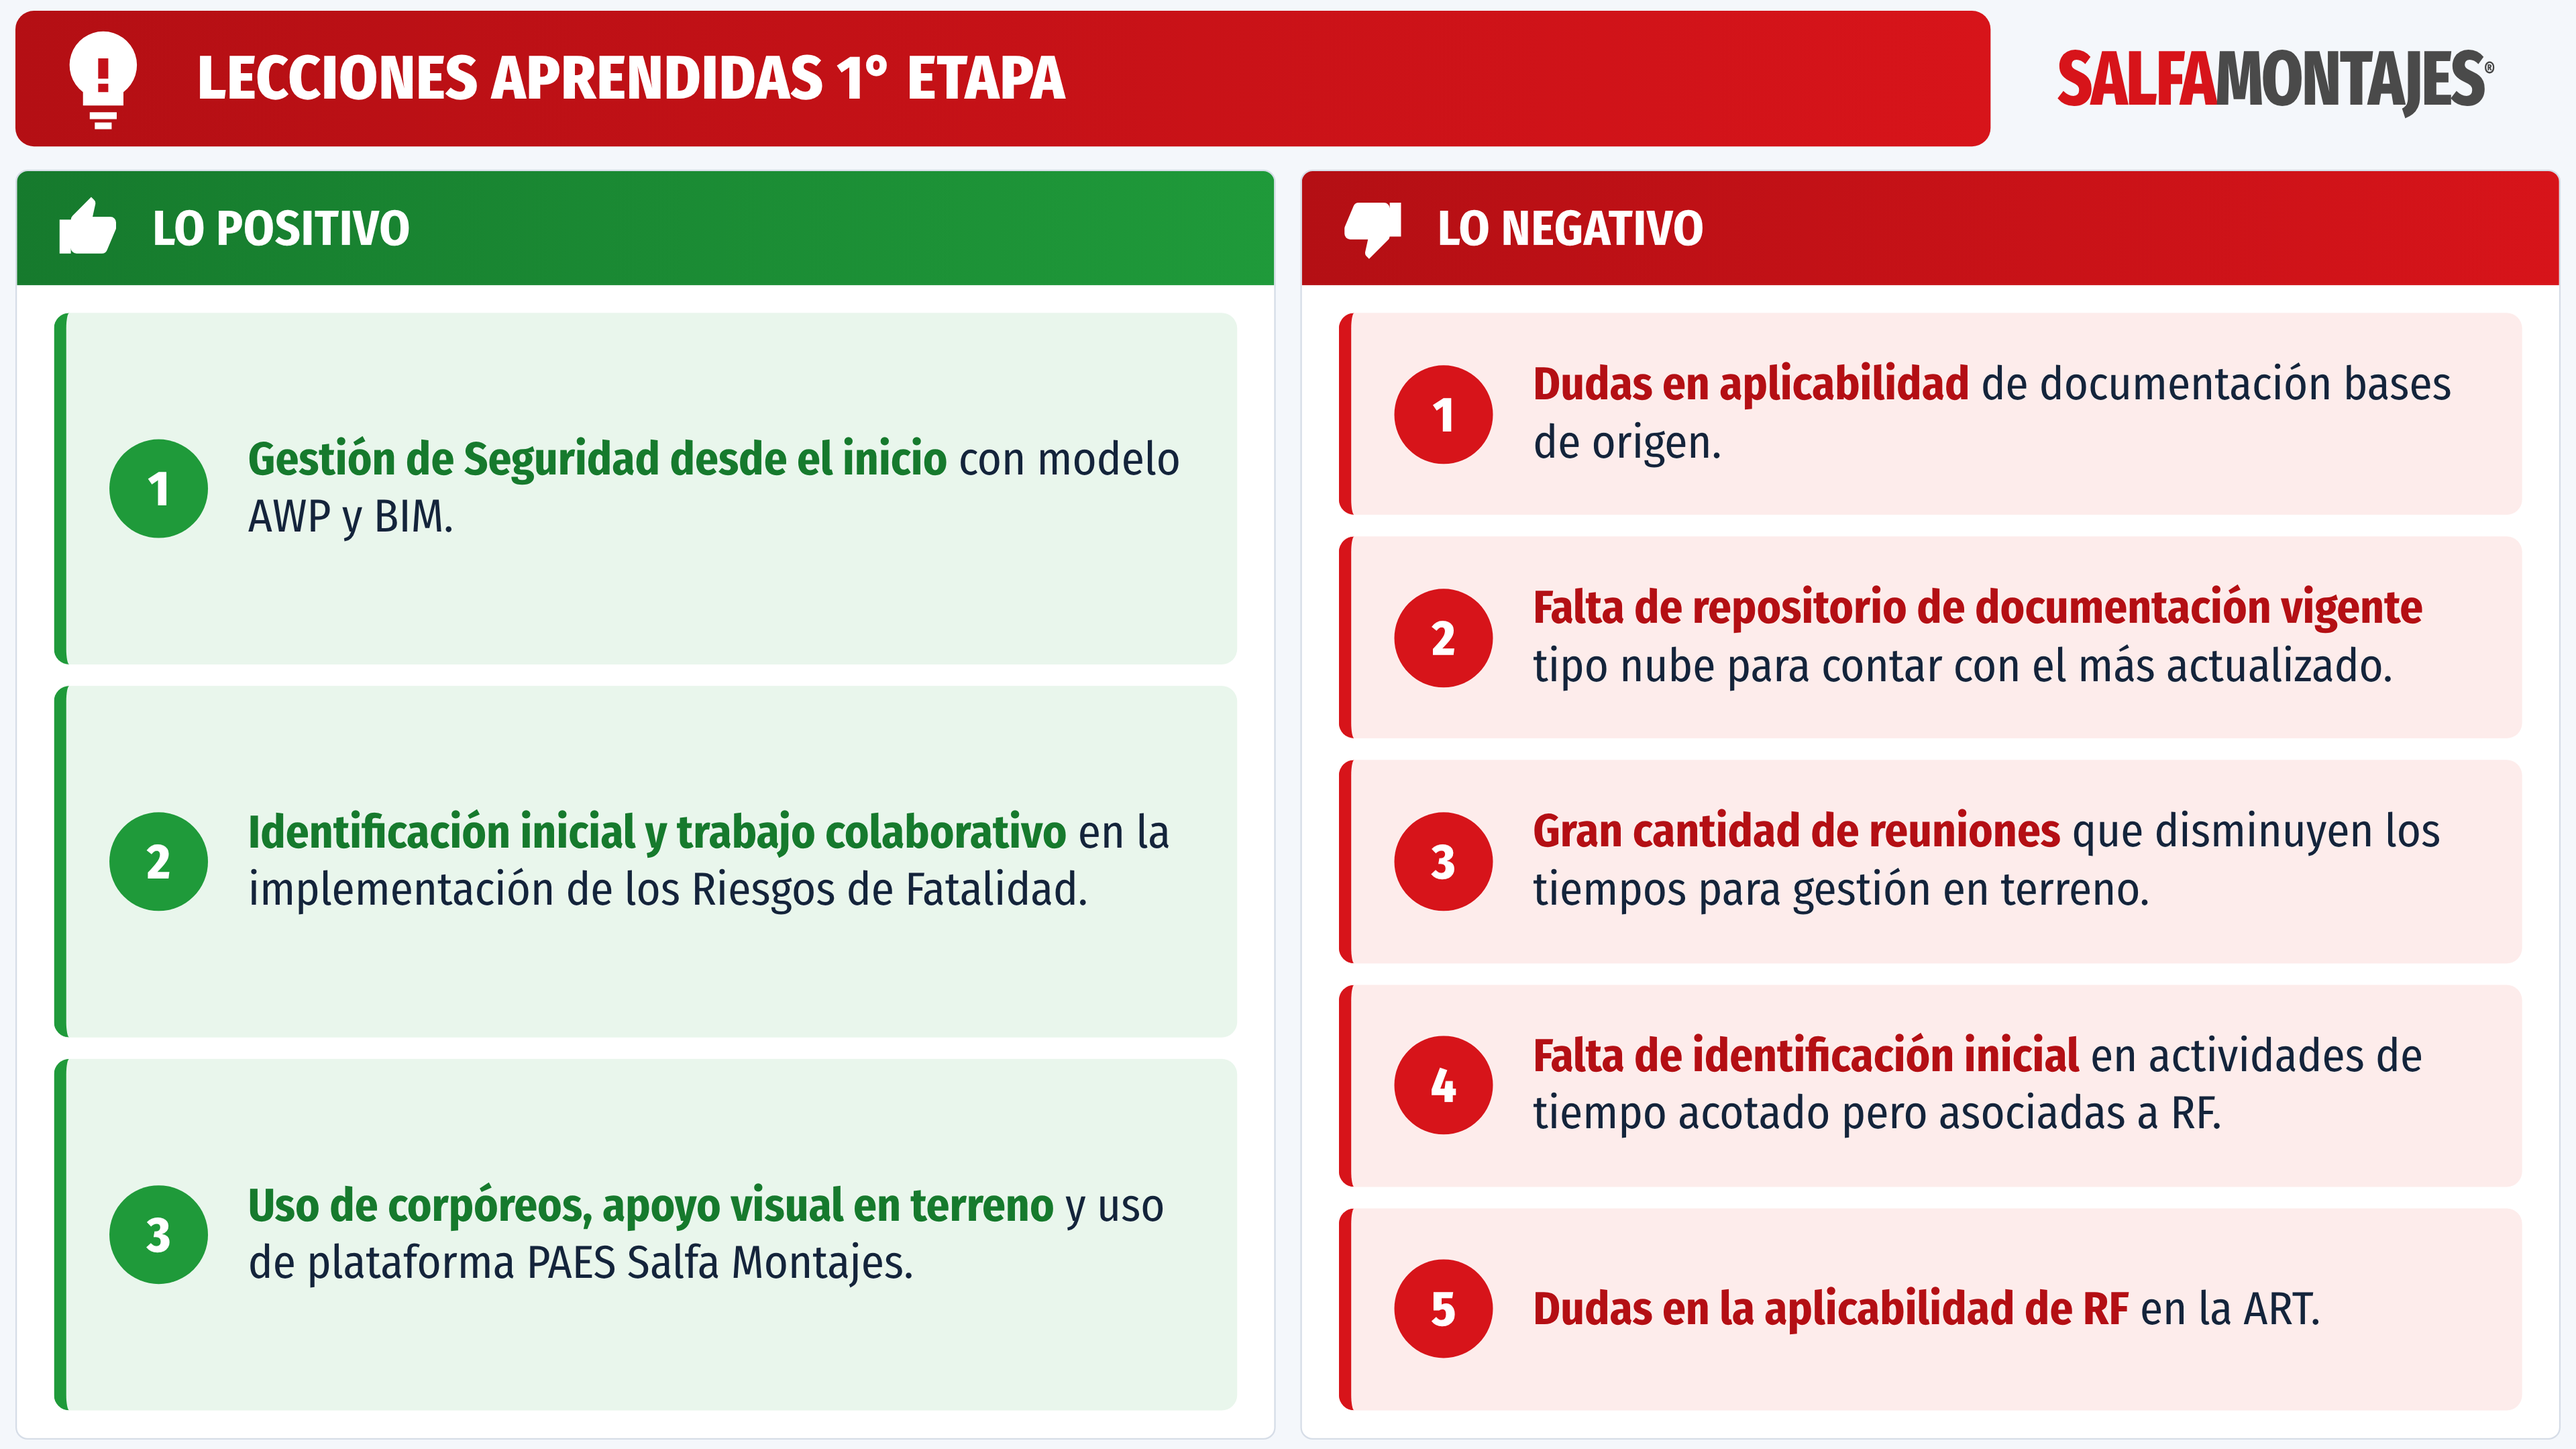
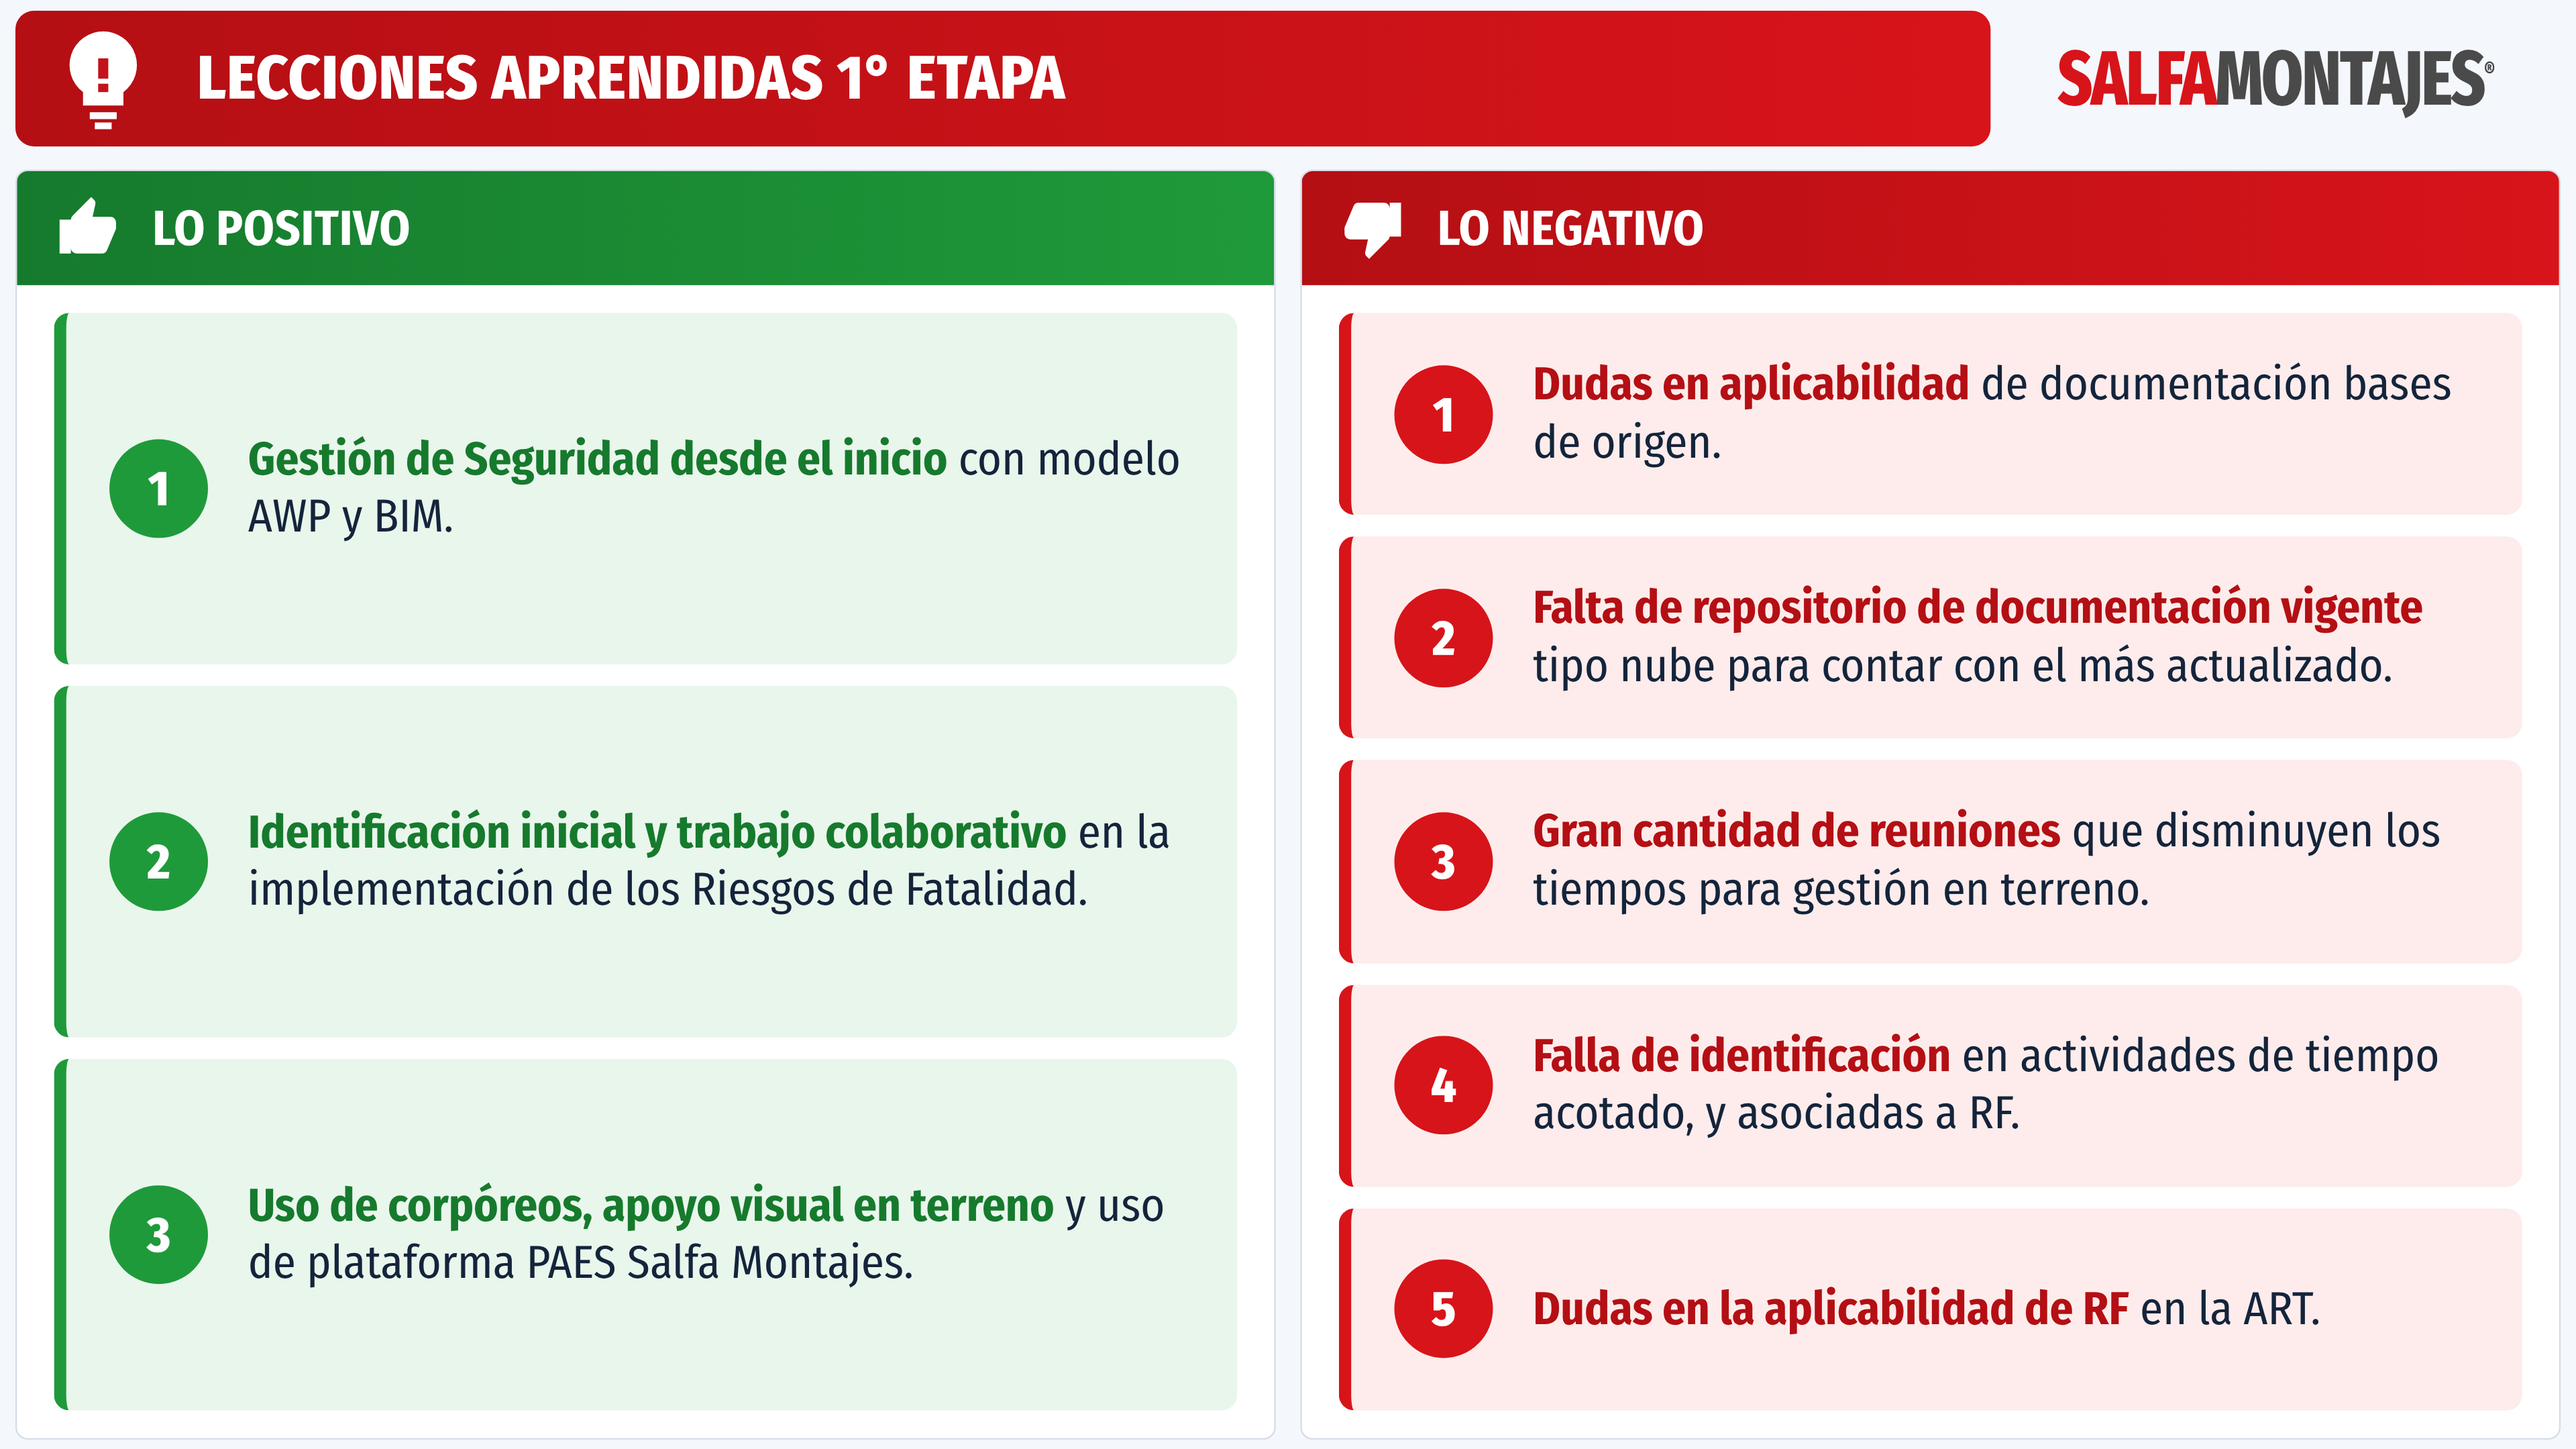
Ajustar punto negativo 4: falla de identificación en actividades de tiempo acotado
Claude-Session: https://claude.ai/code/session_01R7SUHWrVXsce4pGmmGYyHg

Changed region(s): [[0.5938, 0.7134, 0.9375, 0.7755]]

diff --git a/lecciones-aprendidas-etapa-1.html b/lecciones-aprendidas-etapa-1.html
@@ -55,7 +55,7 @@
       <li><span class="num">1</span><span><b>Dudas en aplicabilidad</b> de documentación bases de origen.</span></li>
       <li><span class="num">2</span><span><b>Falta de repositorio de documentación vigente</b> tipo nube para contar con el más actualizado.</span></li>
       <li><span class="num">3</span><span><b>Gran cantidad de reuniones</b> que disminuyen los tiempos para gestión en terreno.</span></li>
-      <li><span class="num">4</span><span><b>Falta de identificación inicial</b> en actividades de tiempo acotado pero asociadas a RF.</span></li>
+      <li><span class="num">4</span><span><b>Falla de identificación</b> en actividades de tiempo acotado, y asociadas a RF.</span></li>
       <li><span class="num">5</span><span><b>Dudas en la aplicabilidad de RF</b> en la ART.</span></li>
     </ul>
   </section>
